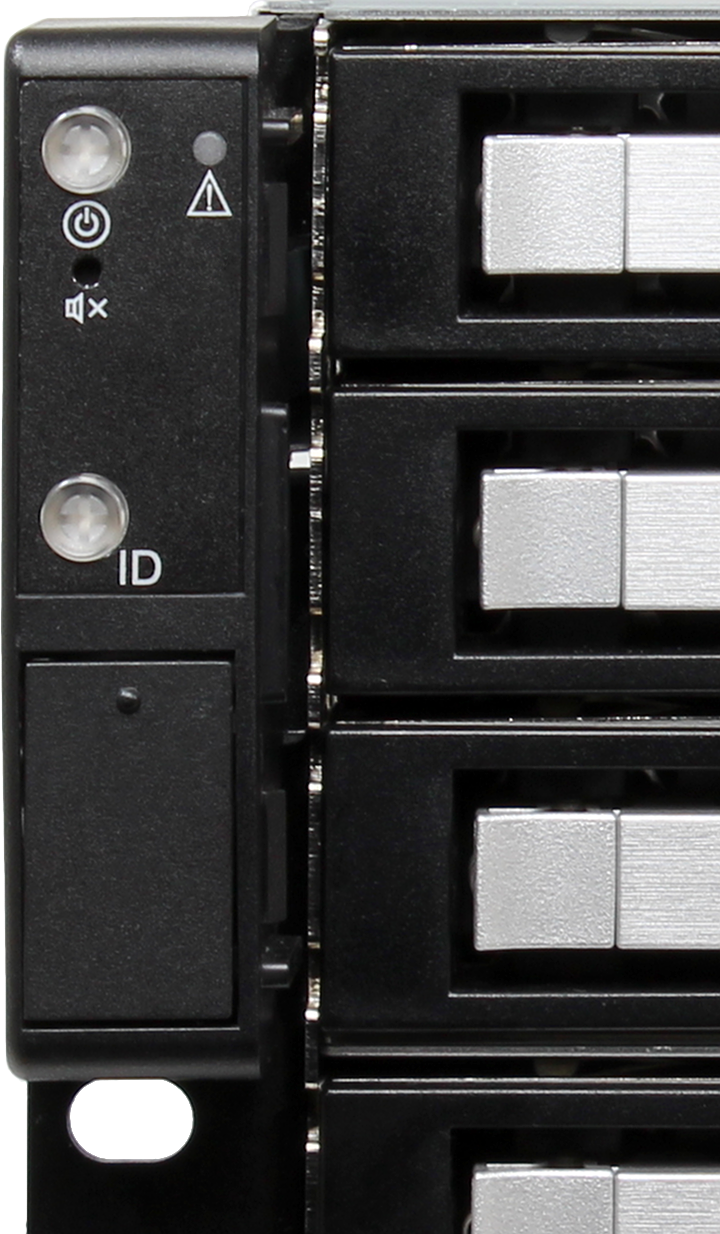
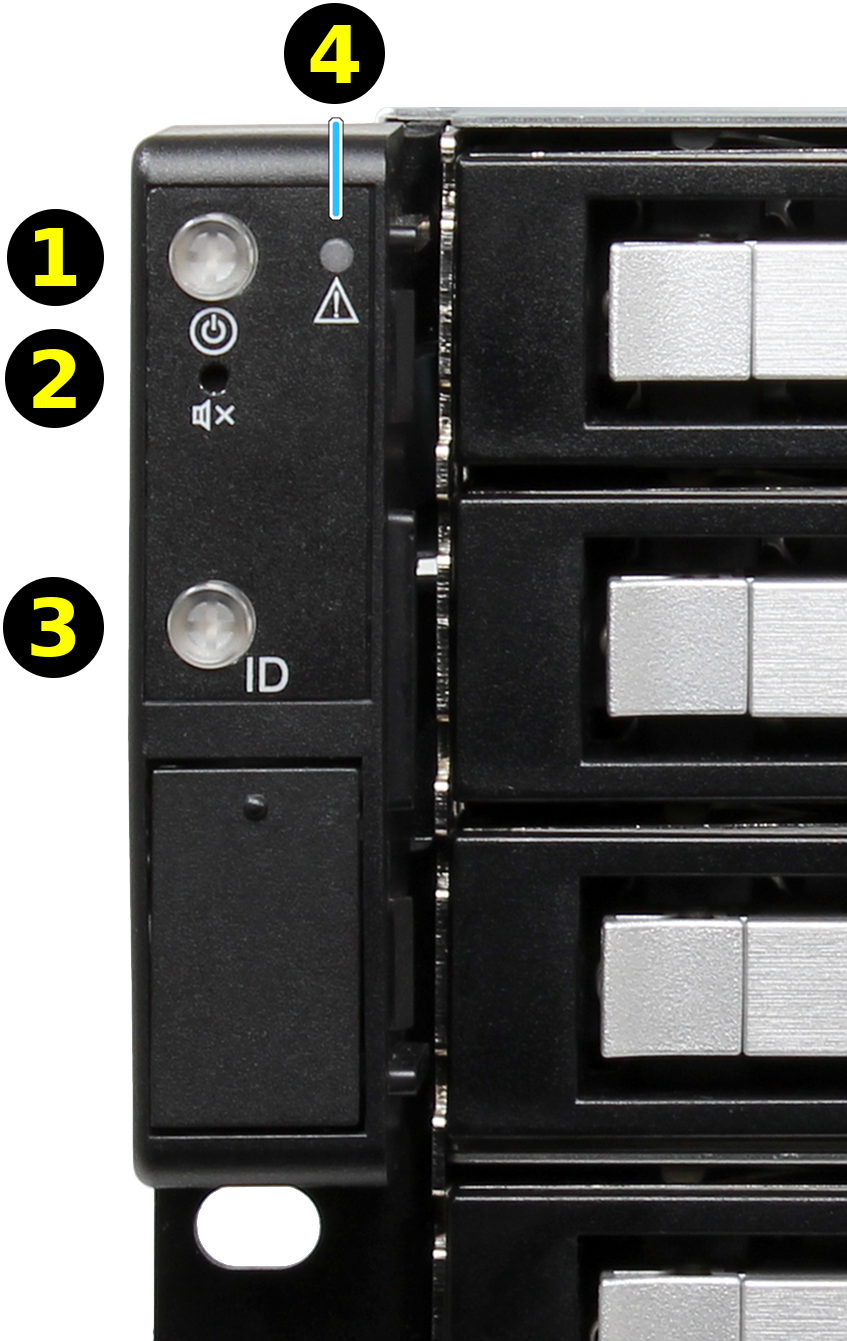
ES24 BSG: Update indicators image and text a little. PDF build test: no issues.

diff --git a/userguide/snippets/es24.rst b/userguide/snippets/es24.rst
@@ -58,16 +58,18 @@ Carefully unpack the shipping boxes and locate these components:
 Become Familiar With the ES24
 ~~~~~~~~~~~~~~~~~~~~~~~~~~~~~
 
-The ES24 has front panel buttons for power and alarm mute, and
-indicators for power, locate ID, and fault. The fault indicator is on
-during the initial power-on self-test (POST) or when the %brand%
-software has issued an alert. See the Alert section in the Additional
-Options chapter of the %brand%
-`User Guide <%docurl%/%brandlower%>`__.
-
 .. _es24_indicators:
 .. figure:: images/tn_es24_indicators.png
-   :width: 15%
+   :width: 20%
+
+
+The ES24 has front panel buttons for power (**#1**), alarm mute (**#2**),
+and locate ID (**#3**). There are indicators for power (**#1**), locate
+ID (**#3**), and fault (**#4**). The fault indicator illuminates during
+the initial power-on self-test (POST) or when the %brand% software has
+issued an alert. See the Alert section in the Additional Options chapter
+of the %brand%
+`User Guide <%docurl%/%brandlower%>`__.
 
 .. _es24_back:
 
